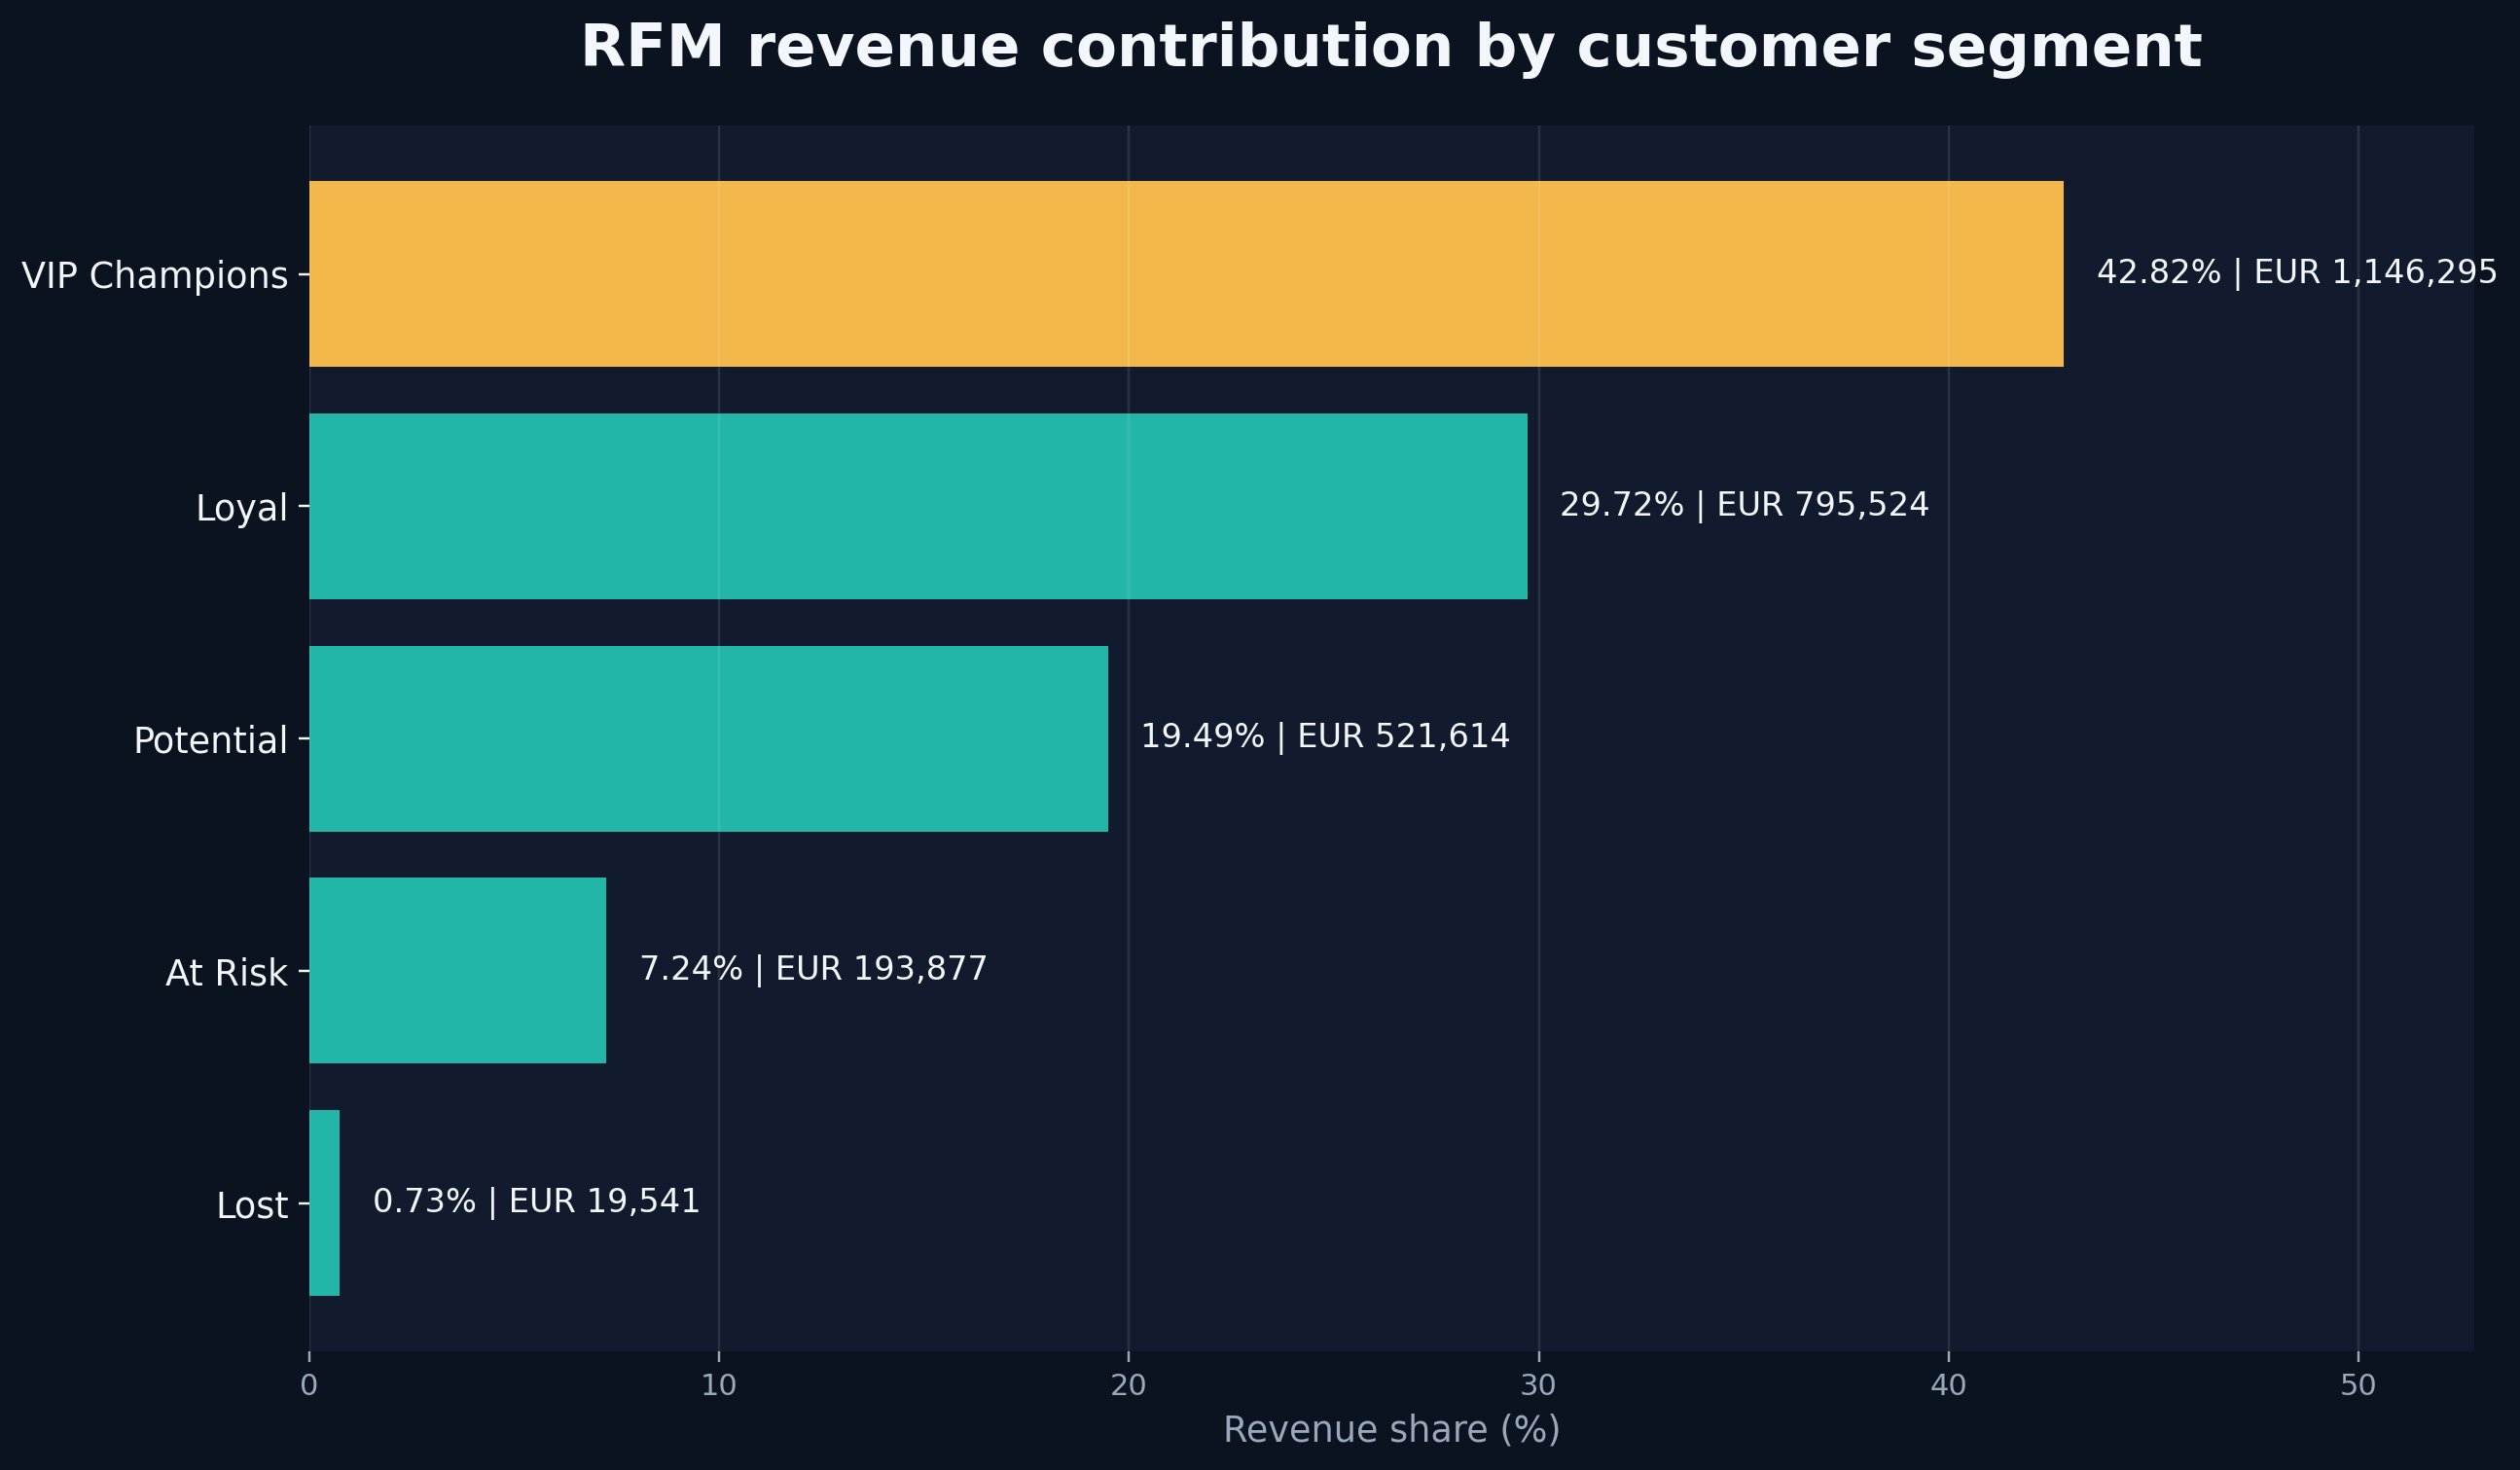
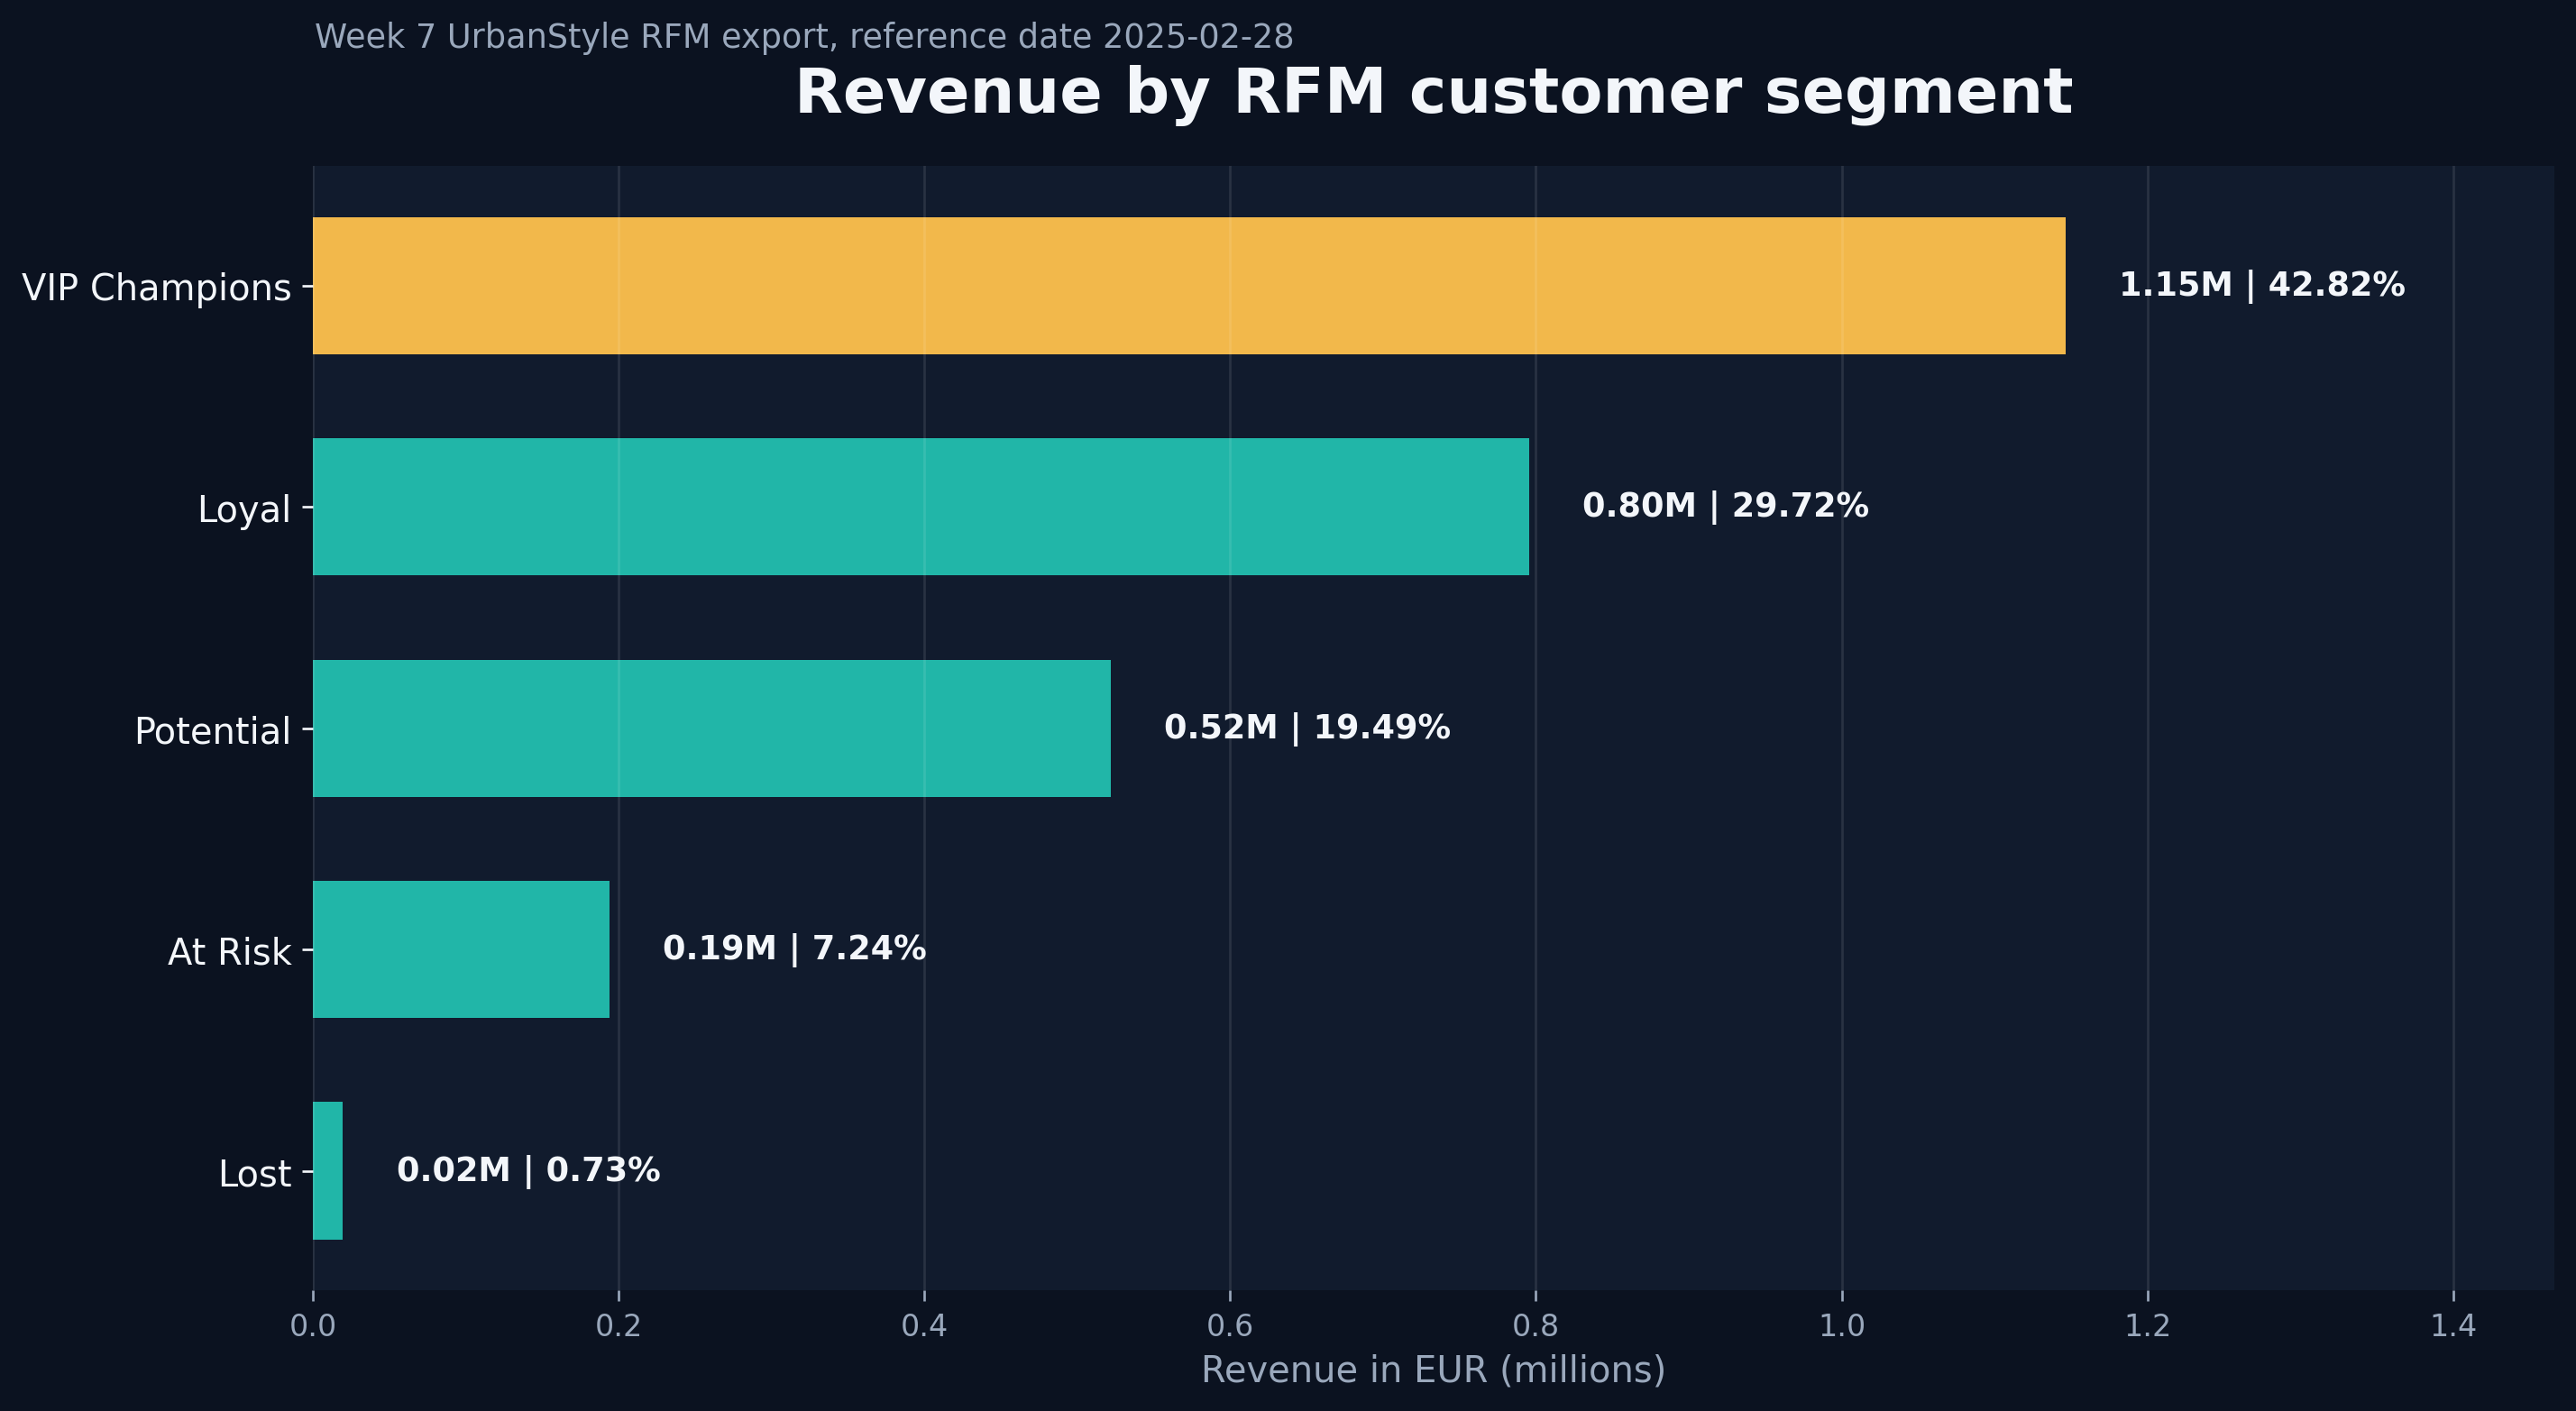
Fix RFM evidence display and portfolio credibility details

diff --git a/index.html b/index.html
@@ -90,7 +90,7 @@
         <h2>Practical analytics with a business lens</h2>
       </div>
       <div class="two-column">
-        <p>I am building practical experience in SQL, Power BI, Python/pandas and PostgreSQL/Supabase through the Data Analyst Career Accelerator at Ettevotluskeskus.</p>
+        <p>I completed the Data Analyst Career Accelerator at Ettevotluskeskus, where I built practical experience in SQL, Power BI, Python/pandas and PostgreSQL/Supabase through business-focused analytics projects.</p>
         <p>My earlier professional background supports how I think about processes, accuracy and responsibility. I am seeking entry-level opportunities in data analytics, BI, reporting and related analyst roles across industries.</p>
       </div>
       <p class="context-note">Projects are based on an UrbanStyle retail business-simulation dataset completed during the Data Analyst Career Accelerator.</p>
@@ -168,7 +168,7 @@
               <p>Protect VIP Champions with loyalty offers, move Potential customers toward repeat purchases, and target At Risk customers before they become Lost.</p>
             </div>
             <p class="evidence-note">Evidence status: reproduced from the committed Week 7 team RFM export.</p>
-            <a class="project-link" href="https://github.com/ragnarlaak/DACA-portfolio/tree/main/portfolio-evidence/outputs/authoritative-rfm" target="_blank" rel="noreferrer">View RFM verification</a>
+            <a class="project-link" href="https://github.com/ragnarlaak/DACA-portfolio/tree/main/week7-python#verified-segment-findings" target="_blank" rel="noreferrer">View RFM evidence</a>
           </div>
           <div class="case-media chart-media">
             <img src="assets/rfm_revenue_by_segment.png" alt="Verified RFM revenue contribution by customer segment chart" loading="lazy">
@@ -265,7 +265,7 @@
     <section class="section education-section" id="education">
       <div class="section-heading">
         <p class="eyebrow">Education</p>
-        <h2>Analytics training</h2>
+        <h2>Completed analytics training</h2>
       </div>
       <div class="education-card">
         <div>
@@ -274,7 +274,7 @@
         </div>
         <span>March 2026 - June 2026</span>
       </div>
-      <p class="education-copy">Hands-on training in SQL, Power BI, Python/pandas, PostgreSQL/Supabase, data quality, business reporting, dashboard storytelling and GitHub-based portfolio documentation.</p>
+      <p class="education-copy">Completed hands-on training in SQL, Power BI, Python/pandas, PostgreSQL/Supabase, data quality, business reporting, dashboard storytelling and GitHub-based portfolio documentation.</p>
     </section>
 
     <section class="section contact-section" id="contact">